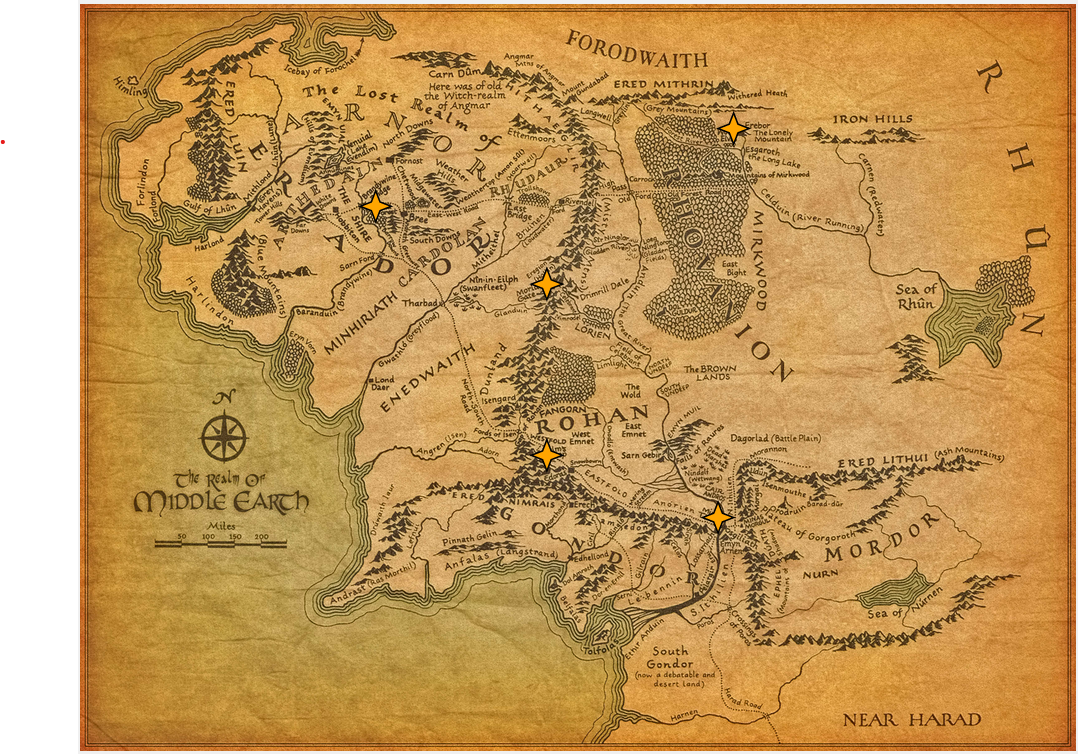
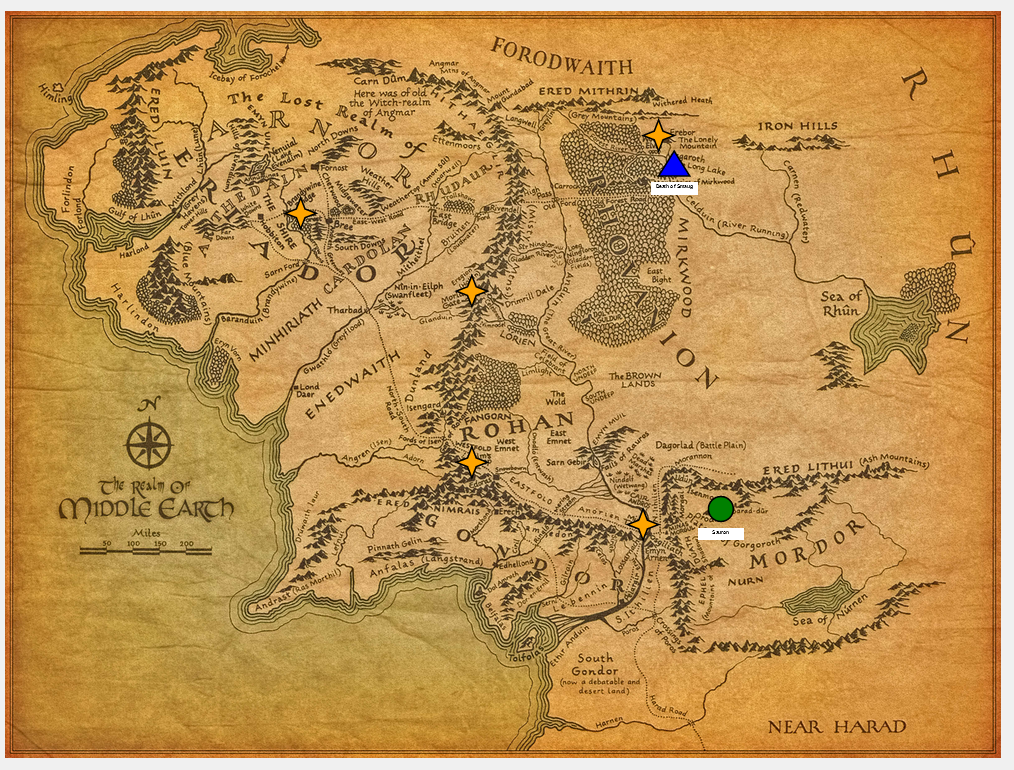
updated readme

diff --git a/README.md b/README.md
@@ -17,6 +17,8 @@ Requirements
 
 Used 4 graphics primitives: polygon (4 pointed star), text, image, rectangle. 4+ colors are used.
 
+REGRADING: I Added green circles and blue triangles to add new shapes and meet the requirement of 4 shapes.
+
 Source: https://observablehq.com/@d3/zoom-to-bounding-box?intent=fork
 
 The idea of this project is entirely taken from this map, and at first a lot of the code was used. But there are major alterations from the source material. First, I was no longer able to rely on the US mapping code support so that invalidated a lot of code right away. But I mainly chose this one because I was frustrated with its failings as a design.
